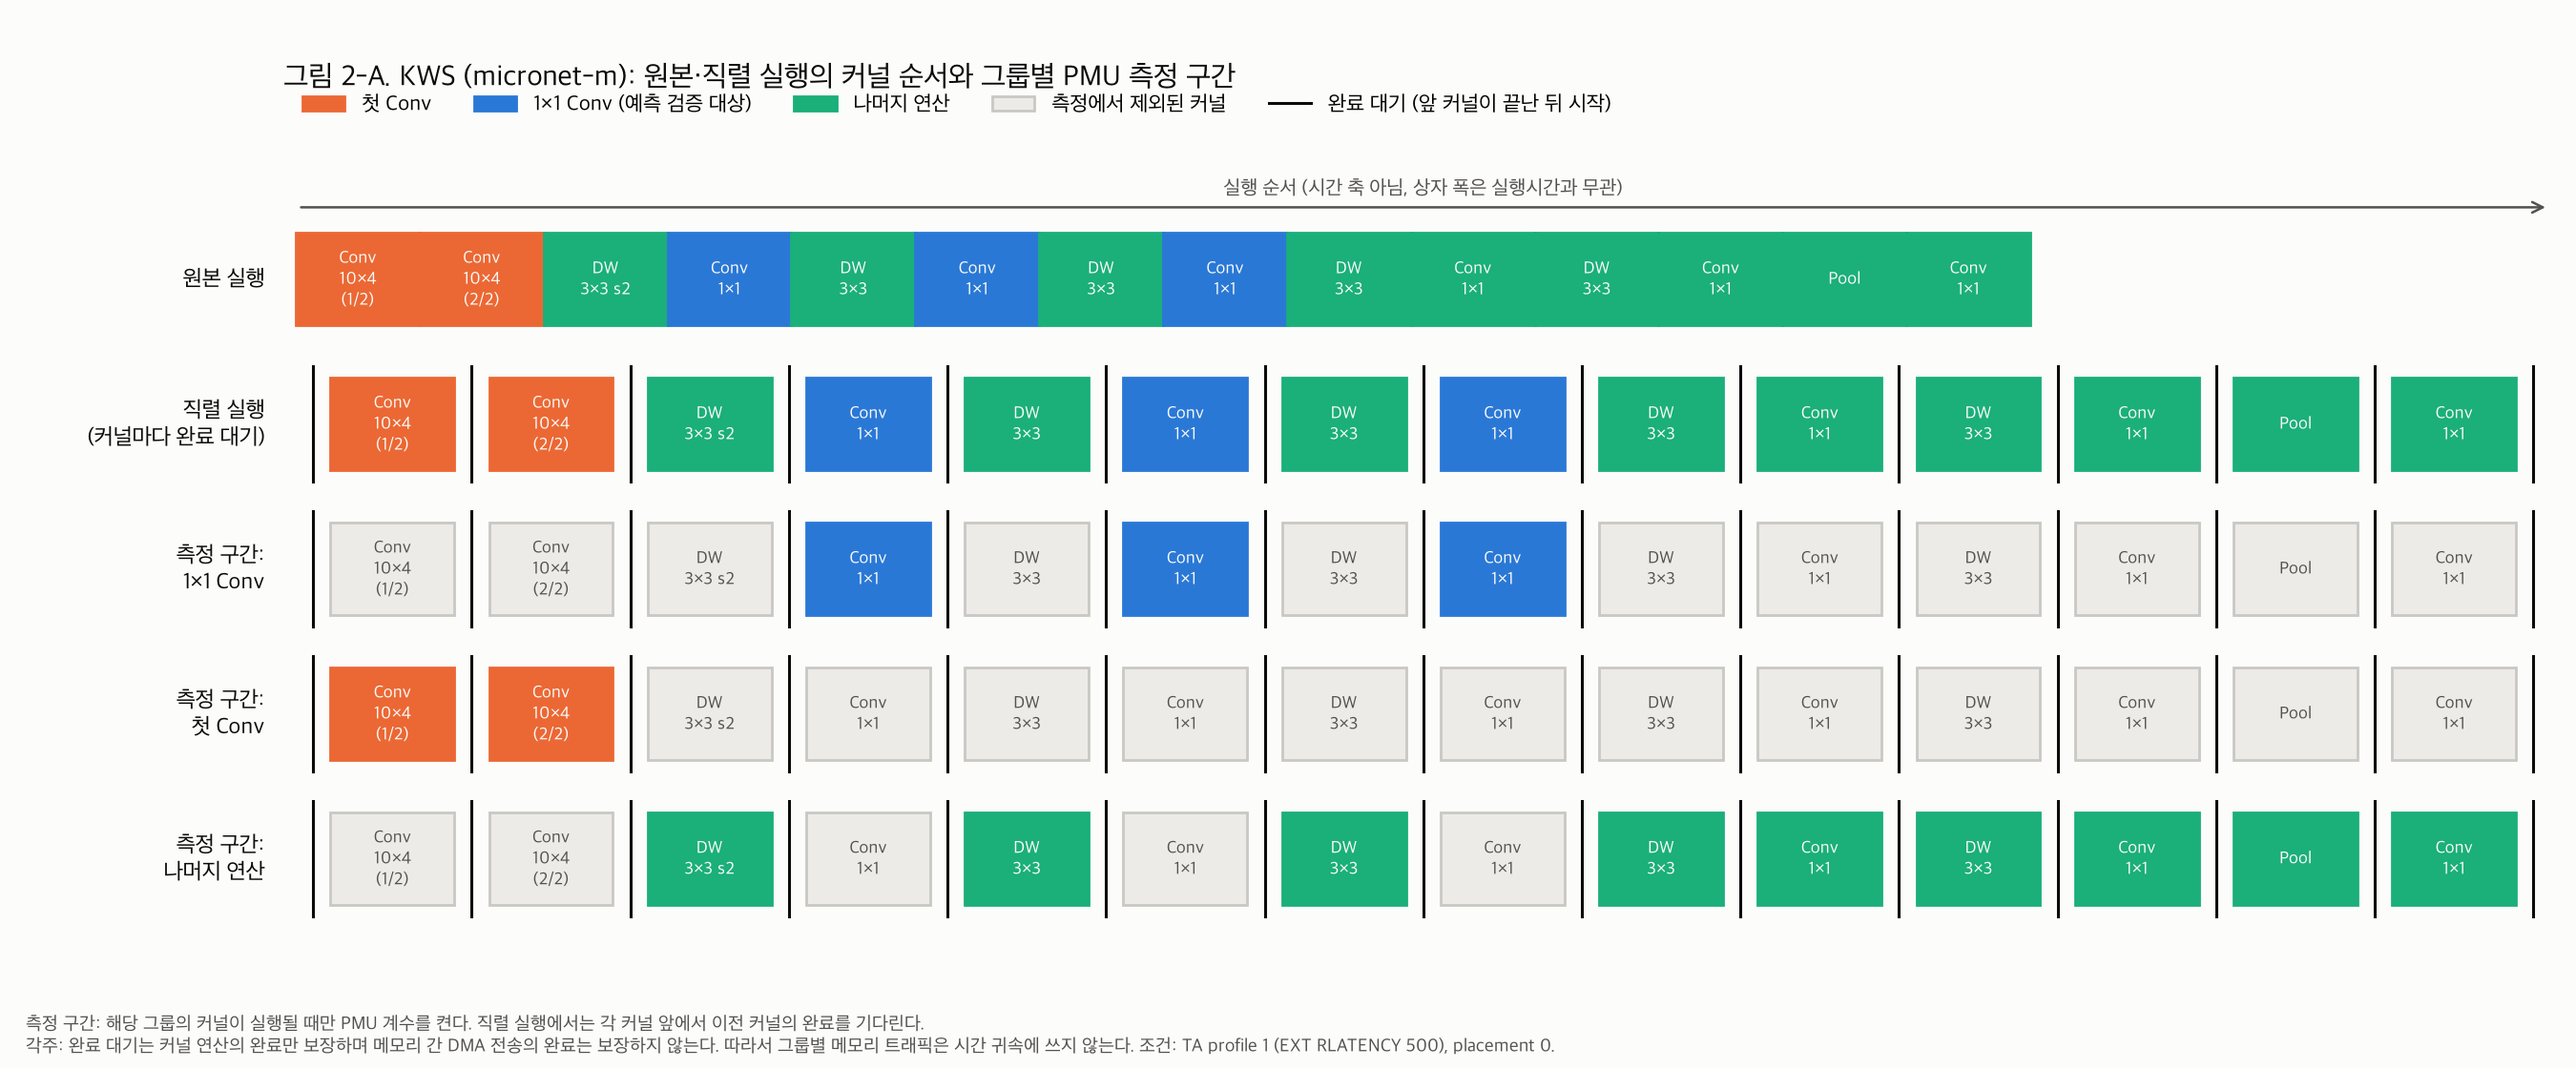
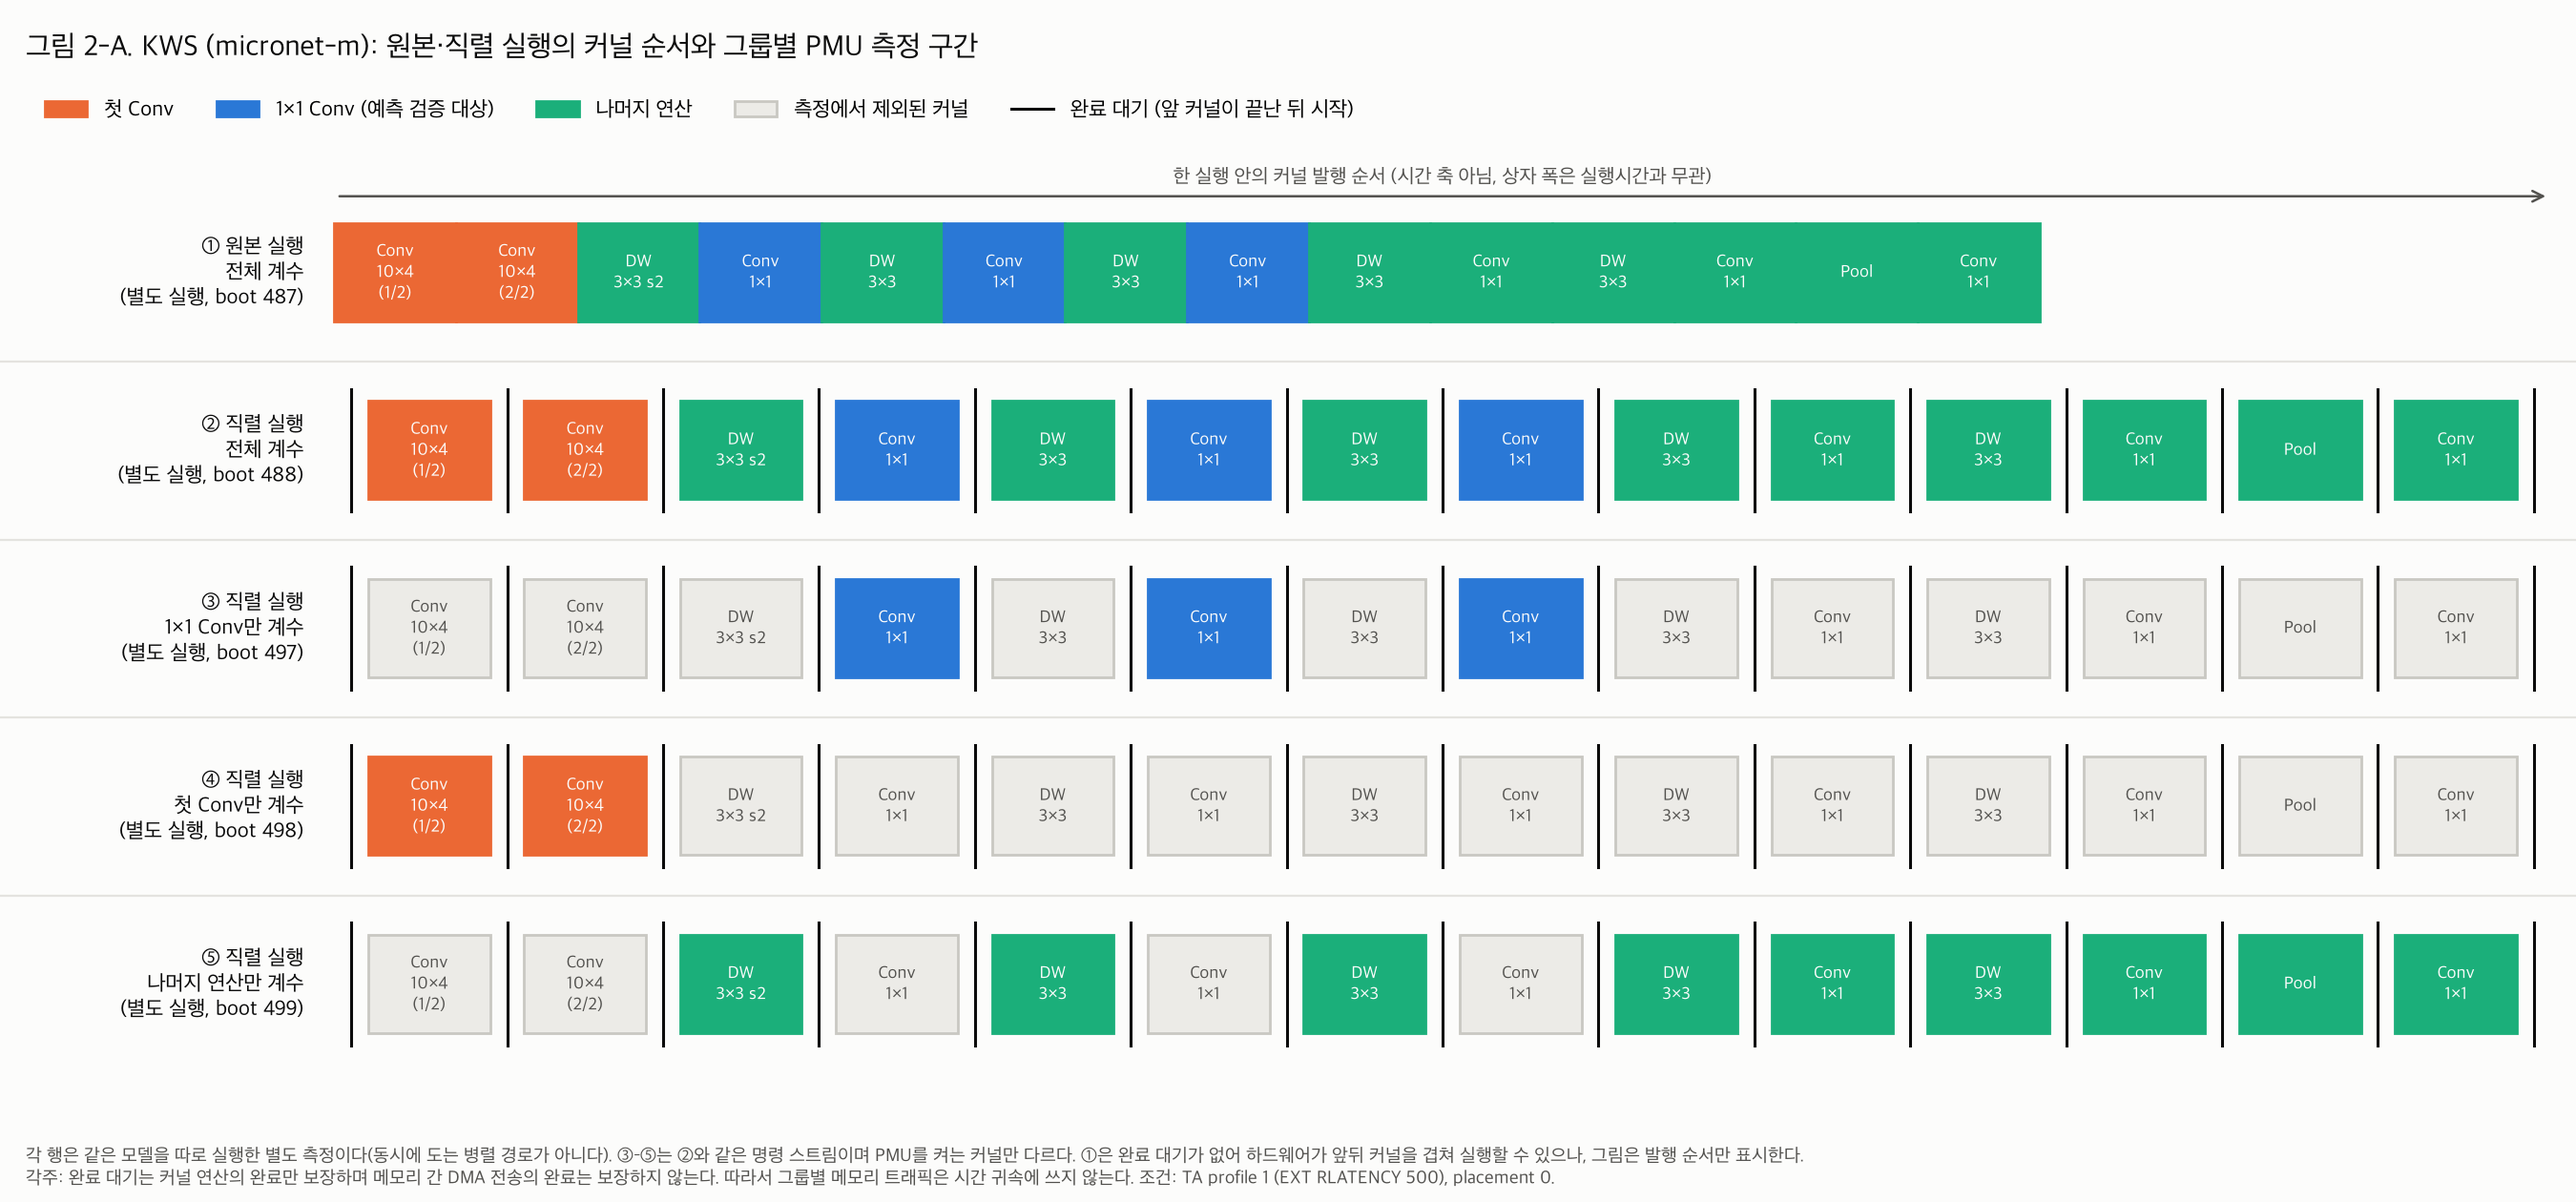
figure: Fig 2 rows labelled as separate runs (boot numbers, separators, note: not parallel lanes)

diff --git a/host/analysis/fig2_x3_stream.py b/host/analysis/fig2_x3_stream.py
@@ -77,8 +77,8 @@ def x_positions(cmds: list[dict]) -> list[float]:
 
 
 GNAME = {"G_V": "1×1 Conv (예측 검증 대상)", "G_0": "첫 Conv", "G_R": "나머지 연산"}
-SEQ_ROWS = [("B0", "원본 실행"), ("B1", "직렬 실행\n(커널마다 완료 대기)"), ("B2", "측정 구간:\n1×1 Conv"),
-            ("B3", "측정 구간:\n첫 Conv"), ("B4", "측정 구간:\n나머지 연산")]
+SEQ_ROWS = [("B0", "① 원본 실행\n전체 계수"), ("B1", "② 직렬 실행\n전체 계수"), ("B2", "③ 직렬 실행\n1×1 Conv만 계수"),
+            ("B3", "④ 직렬 실행\n첫 Conv만 계수"), ("B4", "⑤ 직렬 실행\n나머지 연산만 계수")]
 OPS6D = REPO / "results/fi101_stage6d/operator_levels.csv"
 
 
@@ -120,11 +120,13 @@ def draw(model: str, tag: str, out: pathlib.Path) -> list[dict]:
         split.setdefault(ktf[k], []).append(k)
     n = len(order)
     bw, gap = 1.0, 0.28
-    fig, ax = plt.subplots(figsize=(13.5, 5.6))
+    fig, ax = plt.subplots(figsize=(13.5, 6.3))
     ax.grid(False)
     log = []
     for r, (cond, desc) in enumerate(SEQ_ROWS):
-        y = r * 1.25
+        y = r * 1.45
+        if r:                                        # each row is a separate board run
+            ax.plot([-3.2, 99], [y - 0.72] * 2, color=F1.GRID, linewidth=0.8, clip_on=False)
         serial = cond != "B0"
         cnt = counted(rows[cond]) if serial else {k: 1 for k in order}
         x = 0.0
@@ -147,32 +149,34 @@ def draw(model: str, tag: str, out: pathlib.Path) -> list[dict]:
             if serial:
                 ax.plot([x + gap / 2] * 2, [y - 0.5, y + 0.5], color=F1.INK, linewidth=1.1)
                 x += gap
-        ax.text(-0.25, y, desc, ha="right", va="center", fontsize=8.5, color=F1.INK)
+        ax.text(-0.25, y, f"{desc}\n(별도 실행, boot {BOOTS[model][cond]})", ha="right", va="center", fontsize=8,
+                color=F1.INK)
     total = n * bw + (n + 1) * gap
     ax.set_xlim(-0.1, total + 0.1)
-    ax.set_ylim(len(SEQ_ROWS) * 1.25 - 0.55, -0.75)
+    ax.set_ylim(len(SEQ_ROWS) * 1.45 - 0.75, -0.75)
     ax.set_xticks([])
     ax.set_yticks([])
     for sp in ("left", "bottom"):
         ax.spines[sp].set_visible(False)
     ax.annotate("", xy=(total, -0.62), xytext=(0, -0.62),
                 arrowprops=dict(arrowstyle="->", color=F1.INK2, linewidth=0.9))
-    ax.text(total / 2, -0.68, "실행 순서 (시간 축 아님, 상자 폭은 실행시간과 무관)", ha="center", va="bottom", fontsize=7.5,
+    ax.text(total / 2, -0.68, "한 실행 안의 커널 발행 순서 (시간 축 아님, 상자 폭은 실행시간과 무관)", ha="center", va="bottom", fontsize=7.5,
             color=F1.INK2)
     leg = [Rectangle((0, 0), 1, 1, facecolor=GCOL[g], edgecolor=GCOL[g]) for g in ("G_0", "G_V", "G_R")]
     leg += [Rectangle((0, 0), 1, 1, facecolor="#ecebe7", edgecolor="#c9c8c2"),
             plt.Line2D([0], [0], color=F1.INK, linewidth=1.1)]
-    ax.legend(leg, [GNAME["G_0"], GNAME["G_V"], GNAME["G_R"], "측정에서 제외된 커널", "완료 대기 (앞 커널이 끝난 뒤 시작)"],
-              frameon=False, ncol=5, fontsize=8, loc="upper left", bbox_to_anchor=(0, 1.16))
+    fig.legend(leg, [GNAME["G_0"], GNAME["G_V"], GNAME["G_R"], "측정에서 제외된 커널", "완료 대기 (앞 커널이 끝난 뒤 시작)"],
+              frameon=False, ncol=5, fontsize=8, loc="upper left", bbox_to_anchor=(0.01, 0.935))
     name = {"kws_micronet_m": "KWS (micronet-m)", "ad_medium_int8": "AD (medium)"}[model]
-    ax.set_title(f"그림 2-{'A' if tag == 'kws' else 'B'}. {name}: 원본·직렬 실행의 커널 순서와 그룹별 PMU 측정 구간",
-                 loc="left", fontsize=11, color=F1.INK, pad=40)
+    fig.text(0.01, 0.975, f"그림 2-{'A' if tag == 'kws' else 'B'}. {name}: 원본·직렬 실행의 커널 순서와 그룹별 PMU 측정 구간",
+             ha="left", va="top", fontsize=11, color=F1.INK)
     fig.text(0.01, 0.015,
-             "측정 구간: 해당 그룹의 커널이 실행될 때만 PMU 계수를 켠다. 직렬 실행에서는 각 커널 앞에서 이전 커널의 완료를 기다린다.\n"
+             "각 행은 같은 모델을 따로 실행한 별도 측정이다(동시에 도는 병렬 경로가 아니다). ③–⑤는 ②와 같은 명령 스트림이며 PMU를 켜는 커널만 다르다. "
+             "①은 완료 대기가 없어 하드웨어가 앞뒤 커널을 겹쳐 실행할 수 있으나, 그림은 발행 순서만 표시한다.\n"
              "각주: 완료 대기는 커널 연산의 완료만 보장하며 메모리 간 DMA 전송의 완료는 보장하지 않는다. 따라서 그룹별 메모리 트래픽은 "
              "시간 귀속에 쓰지 않는다. 조건: TA profile 1 (EXT RLATENCY 500), placement 0.",
              fontsize=7, color=F1.INK2)
-    fig.subplots_adjust(left=0.11, right=0.995, top=0.82, bottom=0.12)
+    fig.subplots_adjust(left=0.125, right=0.995, top=0.85, bottom=0.11)
     fig.savefig(out / f"fig2{'a' if tag == 'kws' else 'b'}_{tag}_command_stream.png", dpi=200)
     plt.close(fig)
     return log
